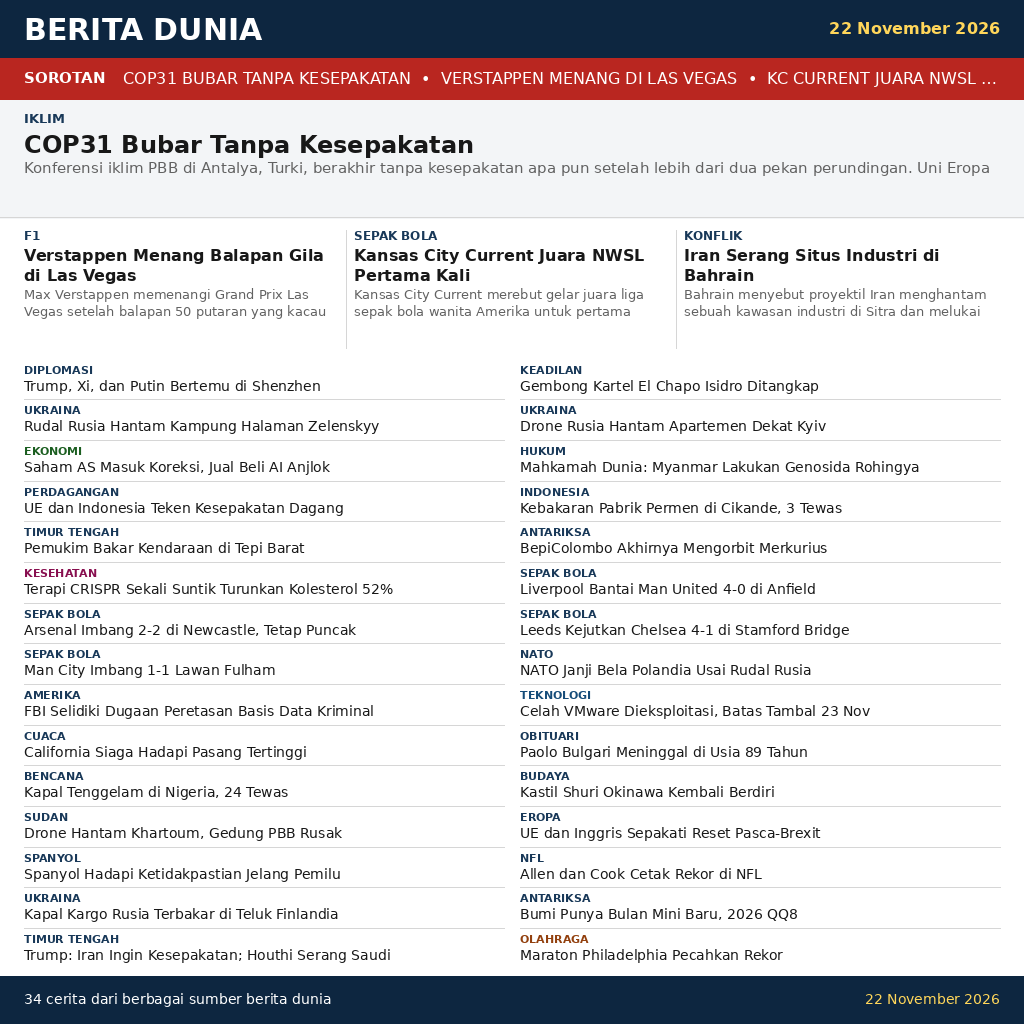
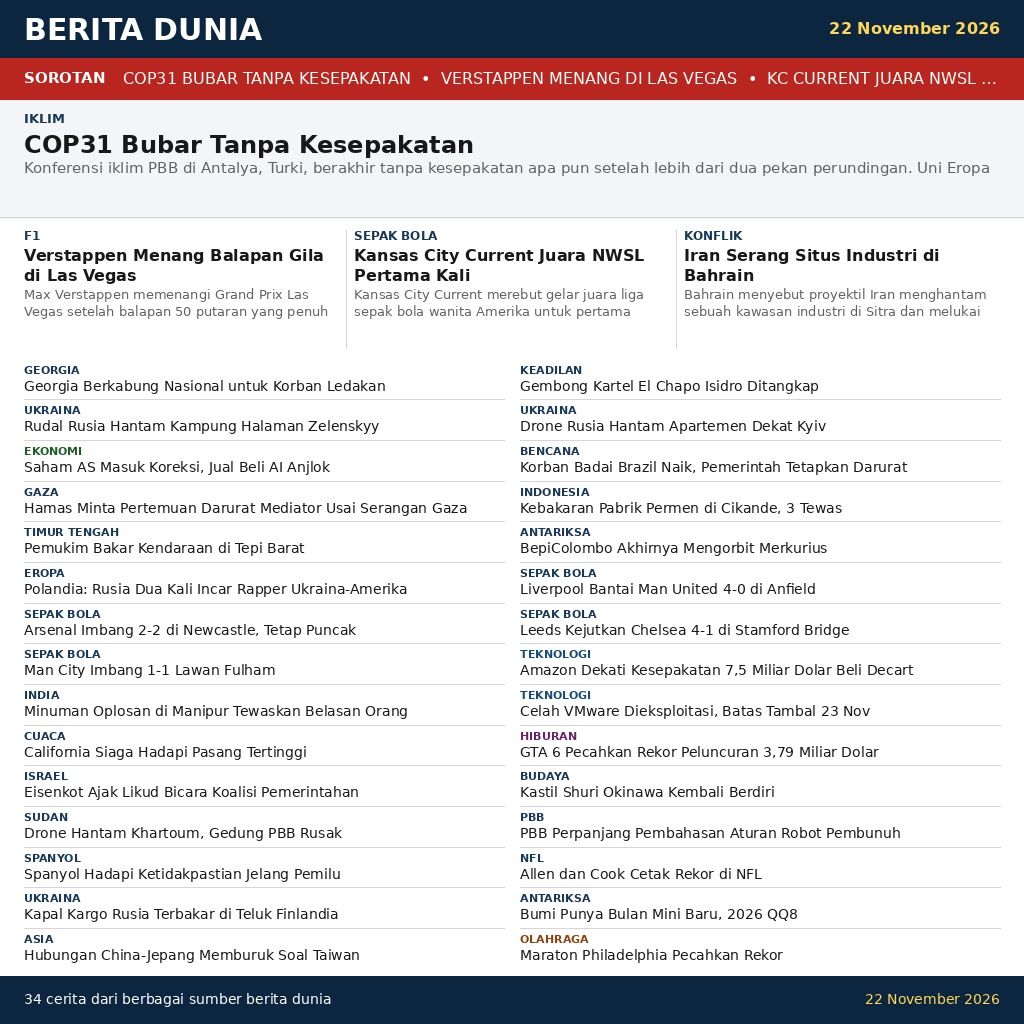
Revise 10 stories per DeepSeek review: replace wrong-date entries, fix F1/NWSL/Man City/Nasdaq details

diff --git a/stories.py b/stories.py
@@ -11,12 +11,12 @@ STORIES = [
     {
         "tag": "F1",
         "title": "Verstappen Menang Balapan Gila di Las Vegas",
-        "text": "Max Verstappen memenangi Grand Prix Las Vegas setelah balapan 50 putaran yang kacau dengan 352 kali salip-menyalip dan 35 kali pergantian pemimpin. Lando Norris finis kedua dan Oscar Piastri ketiga, setelah drama di putaran akhir menjatuhkan Mercedes dari podium.",
+        "text": "Max Verstappen memenangi Grand Prix Las Vegas setelah balapan 50 putaran yang penuh drama hingga akhir. Lando Norris finis kedua dan Oscar Piastri ketiga, sementara Mercedes tersingkir dari podium di putaran-putaran penutup.",
     },
     {
         "tag": "SEPAK BOLA",
         "title": "Kansas City Current Juara NWSL Pertama Kali",
-        "text": "Kansas City Current merebut gelar juara liga sepak bola wanita Amerika untuk pertama kalinya dengan menang 2-1 atas Washington Spirit di Audi Field. Gol pembuka dicetak Vanessa DiBernardo langsung dari tendangan sudut, lalu Debinha menggandakan keunggulan sebelum Trinity Rodman memperkecil skor.",
+        "text": "Kansas City Current merebut gelar juara liga sepak bola wanita Amerika untuk pertama kalinya dengan menang 2-1 atas Washington Spirit di Audi Field. Gol pembuka dicetak Vanessa DiBernardo langsung dari tendangan sudut, sebelum Trinity Rodman memperkecil skor.",
     },
     {
         "tag": "KONFLIK",
@@ -24,9 +24,9 @@ STORIES = [
         "text": "Bahrain menyebut proyektil Iran menghantam sebuah kawasan industri di Sitra dan melukai dua orang. Arab Saudi, Kuwait, dan Qatar mengecam serangan itu. Iran mengklaim telah menghancurkan dua radar Patriot Amerika, sementara tiga kapal tanker juga dilaporkan diserang di dekat Selat Hormuz.",
     },
     {
-        "tag": "DIPLOMASI",
-        "title": "Trump, Xi, dan Putin Bertemu di Shenzhen",
-        "text": "Presiden Amerika, China, dan Rusia menggelar pertemuan tiga pihak pertama dalam sejarah di Shenzhen. Ketiganya mengeluarkan pernyataan bersama soal risiko nuklir, namun tanpa batas senjata baru dan tanpa terobosan soal Ukraina.",
+        "tag": "GEORGIA",
+        "title": "Georgia Berkabung Nasional untuk Korban Ledakan",
+        "text": "Georgia menetapkan 22 November sebagai hari berkabung nasional untuk enam korban ledakan gas di blok apartemen Kvemo Ponichala, Tbilisi, termasuk dua anak. Bendera negara diturunkan setengah tiang di seluruh negeri dan ibadah peringatan digelar untuk para korban.",
     },
     {
         "tag": "KEADILAN",
@@ -46,17 +46,17 @@ STORIES = [
     {
         "tag": "EKONOMI",
         "title": "Saham AS Masuk Koreksi, Jual Beli AI Anjlok",
-        "text": "Bursa Amerika jatuh ke wilayah koreksi setelah indeks S&P 500 merosot 3,7 persen dan Nasdaq 5,3 persen dalam sehari. Gelombang jual saham teknologi kecerdasan buatan menyebar ke Jepang dan Korea Selatan.",
+        "text": "Bursa Amerika jatuh ke wilayah koreksi setelah indeks S&P 500 merosot 3,7 persen dan Nasdaq anjlok tajam. Gelombang jual saham teknologi kecerdasan buatan menyebar ke Jepang dan Korea Selatan.",
     },
     {
-        "tag": "HUKUM",
-        "title": "Mahkamah Dunia: Myanmar Lakukan Genosida Rohingya",
-        "text": "Mahkamah Internasional memutuskan Myanmar melakukan genosida terhadap etnis Rohingya pada 2017. Ini pertama kalinya pengadilan dunia menyatakan sebuah negara bertanggung jawab atas genosida.",
+        "tag": "BENCANA",
+        "title": "Korban Badai Brazil Naik, Pemerintah Tetapkan Darurat",
+        "text": "Jumlah korban badai di Tupancireta, Brasil selatan, naik menjadi lima tewas dan 265 luka-luka. Pemerintah federal resmi menetapkan status bencana di kota itu setelah badai merobohkan atap ribuan rumah dan memutus listrik serta air bersih.",
     },
     {
-        "tag": "PERDAGANGAN",
-        "title": "UE dan Indonesia Teken Kesepakatan Dagang",
-        "text": "Uni Eropa dan Indonesia menandatangani perjanjian perdagangan setelah hampir sepuluh tahun berunding. Kesepakatan itu memangkas tarif hingga 98,5 persen barang dan membuka jalan bagi kerja sama ekonomi yang lebih luas.",
+        "tag": "GAZA",
+        "title": "Hamas Minta Pertemuan Darurat Mediator Usai Serangan Gaza",
+        "text": "Hamas meminta pertemuan darurat para mediator gencatan senjata setelah serangan Israel menewaskan tiga pekerja dapur umum yang sedang mengantar makanan ke warga terlantar di Kota Gaza. Militer Israel menyebut kendaraan itu dipakai anggota Jihad Islam, sementara lembaga amal membantah truk itu miliknya.",
     },
     {
         "tag": "INDONESIA",
@@ -74,9 +74,9 @@ STORIES = [
         "text": "Wahana gabungan Eropa-Jepang BepiColombo berhasil masuk orbit Merkurius setelah perjalanan delapan tahun melintasi tata surya bagian dalam. Dua wahana pengorbitnya akan berpisah pada 9-10 Desember untuk mempelajari planet terkecil itu.",
     },
     {
-        "tag": "KESEHATAN",
-        "title": "Terapi CRISPR Sekali Suntik Turunkan Kolesterol 52%",
-        "text": "Terapi gen sekali pakai berbasis CRISPR berhasil memangkas kolesterol jahat hingga 52 persen dalam uji klinis. Temuan ini membuka jalan bagi pengobatan baru penyakit jantung tanpa obat harian.",
+        "tag": "EROPA",
+        "title": "Polandia: Rusia Dua Kali Incar Rapper Ukraina-Amerika",
+        "text": "Polandia mengungkap Rusia diduga dua kali mencoba membunuh rapper Ukraina-Amerika Kyivstoner, sekali di Polandia pada Agustus dan sekali di Denmark. Denmark mengusir atase militer Rusia, dan Uni Eropa didesak memperketat perjalanan warga Rusia.",
     },
     {
         "tag": "SEPAK BOLA",
@@ -96,17 +96,17 @@ STORIES = [
     {
         "tag": "SEPAK BOLA",
         "title": "Man City Imbang 1-1 Lawan Fulham",
-        "text": "Manchester City mengakhiri tiga kekalahan beruntun di liga dengan hasil imbang 1-1 melawan Fulham di Etihad. Gol Fulham dicetak Rodrigo Muniz sebelum City menyamakan kedudukan.",
+        "text": "Manchester City mengakhiri tiga kekalahan beruntun di liga dengan hasil imbang 1-1 melawan Fulham di Etihad.",
     },
     {
-        "tag": "NATO",
-        "title": "NATO Janji Bela Polandia Usai Rudal Rusia",
-        "text": "Sekretaris Jenderal NATO Mark Rutte berjanji membela Polandia setelah rudal dan drone Rusia memasuki wilayah udara Polandia. NATO menyebut pelanggaran itu serius dan akan membahasnya dalam pertemuan Dewan Atlantik Utara.",
+        "tag": "TEKNOLOGI",
+        "title": "Amazon Dekati Kesepakatan 7,5 Miliar Dolar Beli Decart",
+        "text": "Amazon berada di tahap akhir pembicaraan untuk membeli perusahaan rintisan AI asal Israel, Decart, senilai sekitar 7,5 miliar dolar. Kesepakatan bisa diumumkan pekan depan, dan akan menjadi salah satu akuisisi termahal untuk perusahaan AI muda.",
     },
     {
-        "tag": "AMERIKA",
-        "title": "FBI Selidiki Dugaan Peretasan Basis Data Kriminal",
-        "text": "FBI menyelidiki dugaan pembobolan Pusat Informasi Kejahatan Nasional, basis data yang dipakai polisi Amerika untuk memeriksa surat perintah, buronan, dan riwayat kriminal.",
+        "tag": "INDIA",
+        "title": "Minuman Oplosan di Manipur Tewaskan Belasan Orang",
+        "text": "Sedikitnya 16 orang tewas dan sekitar 600 lainnya dirawat di Manipur, India, setelah menenggak minuman keras oplosan yang diduga mengandung metanol. Pemerintah negara bagian membentuk tim penyelidikan, sementara penyebab pastinya masih menunggu hasil laboratorium.",
     },
     {
         "tag": "TEKNOLOGI",
@@ -119,14 +119,14 @@ STORIES = [
         "text": "Prakirawan memperingatkan pasang air laut yang bisa memecahkan rekor di pesisir California pekan ini. Wali Kota San Francisco mengimbau warga menghindari perjalanan yang tidak perlu.",
     },
     {
-        "tag": "OBITUARI",
-        "title": "Paolo Bulgari Meninggal di Usia 89 Tahun",
-        "text": "Paolo Bulgari, perajin perhiasan Italia yang mengubah bisnis keluarga menjadi merek mewah dunia, meninggal dunia pada usia 89 tahun.",
+        "tag": "HIBURAN",
+        "title": "GTA 6 Pecahkan Rekor Peluncuran 3,79 Miliar Dolar",
+        "text": "Grand Theft Auto VI membukukan sekitar 3,79 miliar dolar pada hari peluncurannya, rekor baru untuk debut sebuah gim. Angka itu melampaui semua peluncuran gim sebelumnya dan menegaskan besarnya antusiasme pemain di seluruh dunia.",
     },
     {
-        "tag": "BENCANA",
-        "title": "Kapal Tenggelam di Nigeria, 24 Tewas",
-        "text": "Sedikitnya 24 orang tewas ketika sebuah perahu terbalik di Nigeria saat mengangkut rombongan menuju sebuah pemakaman.",
+        "tag": "ISRAEL",
+        "title": "Eisenkot Ajak Likud Bicara Koalisi Pemerintahan",
+        "text": "Pemimpin oposisi Israel Gadi Eisenkot mengundang partai Likud pimpinan Netanyahu ke pembicaraan koalisi, membuka kemungkinan susunan pemerintahan baru. Langkah itu muncul di tengah perdebatan sengit soal serangan pemukim di Tepi Barat.",
     },
     {
         "tag": "BUDAYA",
@@ -139,9 +139,9 @@ STORIES = [
         "text": "Serangan drone di Khartoum merusak sebuah gedung Perserikatan Bangsa-Bangsa di tengah konflik Sudan yang terus berkecamuk.",
     },
     {
-        "tag": "EROPA",
-        "title": "UE dan Inggris Sepakati Reset Pasca-Brexit",
-        "text": "Uni Eropa dan Inggris menyepakati penataan ulang hubungan pasca-Brexit dalam sebuah pertemuan puncak, menandai babak baru kerja sama kedua pihak.",
+        "tag": "PBB",
+        "title": "PBB Perpanjang Pembahasan Aturan Robot Pembunuh",
+        "text": "Perundingan senjata PBB memperpanjang pekerjaan penyusunan aturan soal robot pembunuh hingga 2028. Negara-negara belum sepakat soal batasan senjata otonom yang bisa memilih target sendiri tanpa kendali manusia.",
     },
     {
         "tag": "SPANYOL",
@@ -164,9 +164,9 @@ STORIES = [
         "text": "Para astronom mengonfirmasi Bumi kedatangan bulan mini baru, asteroid 2026 QQ8, yang untuk sementara terperangkap oleh gravitasi planet kita.",
     },
     {
-        "tag": "TIMUR TENGAH",
-        "title": "Trump: Iran Ingin Kesepakatan; Houthi Serang Saudi",
-        "text": "Presiden Trump mengatakan Iran menginginkan kesepakatan, sementara pemberontak Houthi Yaman dan Arab Saudi saling bertukar tembakan di tengah ketegangan kawasan.",
+        "tag": "ASIA",
+        "title": "Hubungan China-Jepang Memburuk Soal Taiwan",
+        "text": "Hubungan China dan Jepang memburuk setelah perselisihan soal Taiwan dan mineral kritis. Kedua negara saling melontarkan pernyataan keras, menambah ketegangan di kawasan Asia Timur.",
     },
     {
         "tag": "OLAHRAGA",
